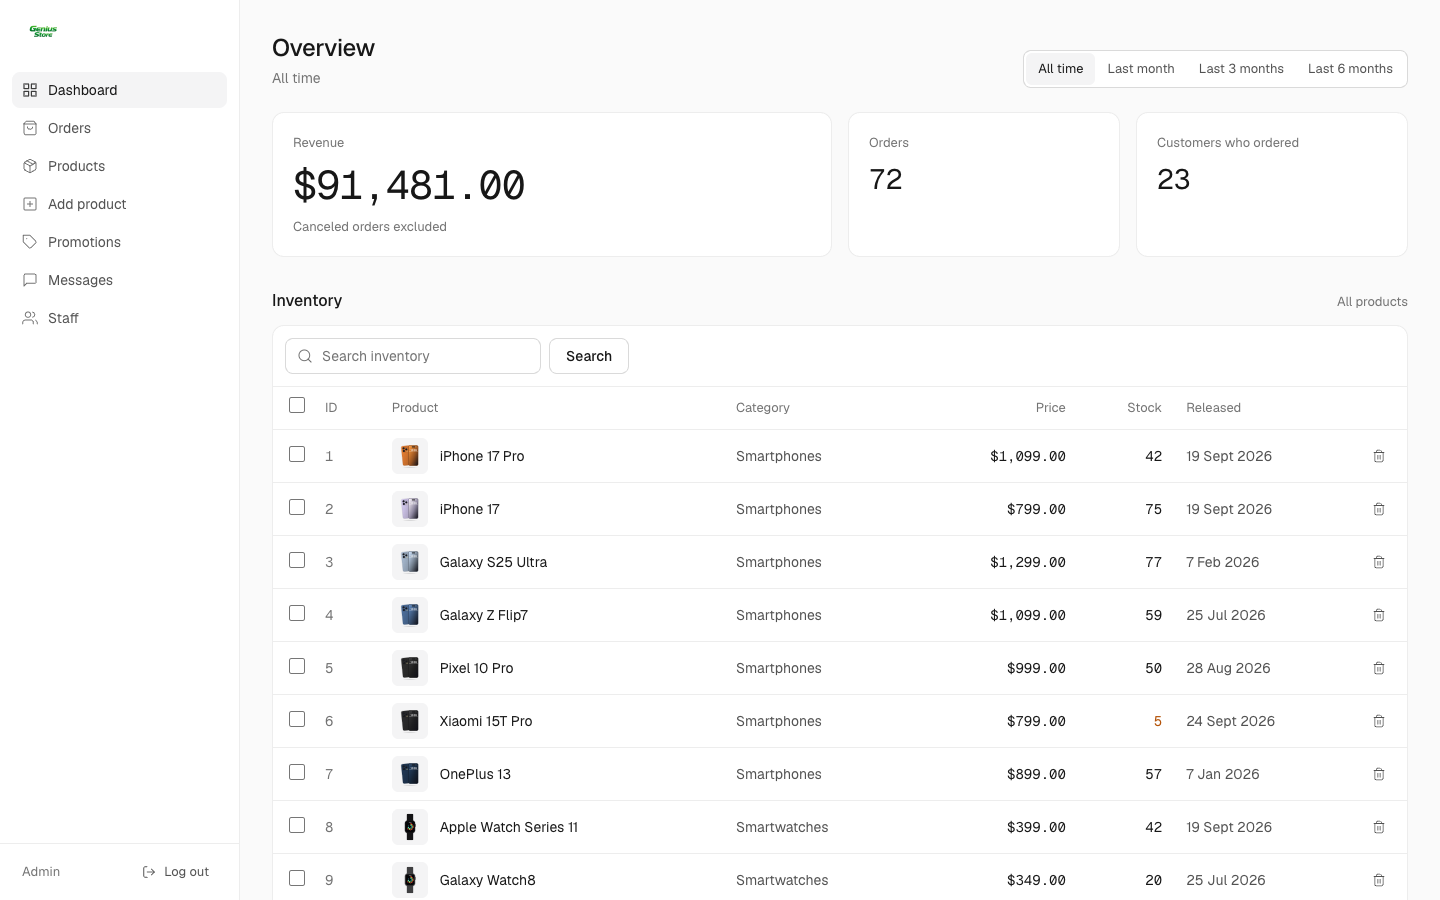
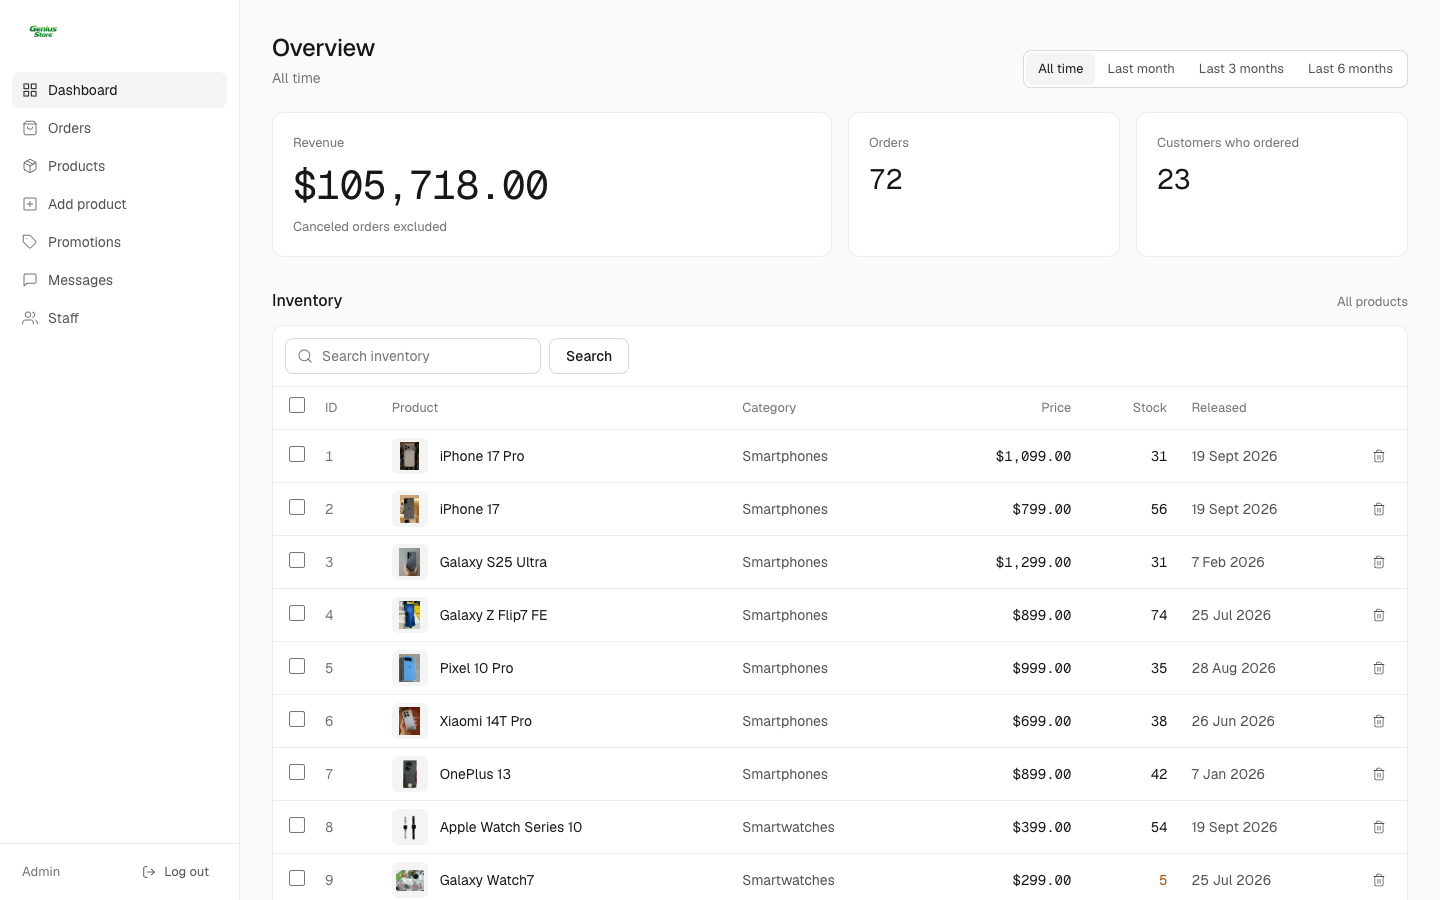
Use real product photos in README screenshots
Retake the storefront and admin screenshots with photos from Wikimedia
Commons instead of drawn placeholders, and credit each photo's author
and licence in a new Photo credits section.

diff --git a/README.md b/README.md
@@ -25,7 +25,7 @@ A customer storefront, an admin panel and a REST API, with Bakong KHQR payments,
 |---|---|
 | ![Storefront home page](docs/screenshots/storefront.png) | ![Admin dashboard](docs/screenshots/admin-dashboard.png) |
 
-<sub>Shown with demo data and generated product images.</sub>
+<sub>Shown with demo data. Product photos from Wikimedia Commons, see Photo credits below.</sub>
 
 ## ✨ Features
 
@@ -128,6 +128,42 @@ PhoneShop-website/
 
 - [Project overview](docs/PROJECT_OVERVIEW.md): features, API endpoints, auth flow
 - [Development notes](docs/dev-notes/): feature write-ups and fixes made along the way
+
+## 🖼 Photo credits
+
+The product photos and the Apple and Xiaomi logos in the screenshots come from [Wikimedia Commons](https://commons.wikimedia.org/). They are used under the licences below. Brand names and logos belong to their owners.
+
+<details>
+<summary>Show credits</summary>
+
+| Photo | Author | Licence |
+|---|---|---|
+| [AirPods Pro 3 with case](https://commons.wikimedia.org/wiki/File:AirPods_Pro_3_with_case.jpg) | Auggie G | CC BY 3.0 |
+| [Apple Watch Series 10](https://commons.wikimedia.org/wiki/File:Apple_Watch_Series_10.png) | KK IN HK | Public domain |
+| [Samsung Galaxy Buds2 Pro (Graphite) (3)](https://commons.wikimedia.org/wiki/File:Samsung_Galaxy_Buds2_Pro_(Graphite)_(3).jpg) | Gannu03 | CC BY-SA 4.0 |
+| [SAMSUNG EP-T4510 45W POWER ADAPER BLACK](https://commons.wikimedia.org/wiki/File:SAMSUNG_EP-T4510_45W_POWER_ADAPER_BLACK.jpg) | Dinkun Chen | CC BY-SA 4.0 |
+| [Samsung Galaxy Flip7 FE](https://commons.wikimedia.org/wiki/File:Samsung_Galaxy_Flip7_FE.jpg) | Ssu | CC BY-SA 4.0 |
+| [Samsung Galaxy Z Flip7 FE Its Look When Closed](https://commons.wikimedia.org/wiki/File:Samsung_Galaxy_Z_Flip7_FE_Its_Look_When_Closed.jpg) | X-SHLIED | CC BY 4.0 |
+| [Galaxy Watch 7](https://commons.wikimedia.org/wiki/File:Galaxy_Watch_7.jpg) | Kyu3a | CC BY-SA 4.0 |
+| [IPad Air 11-inch (M3)](https://commons.wikimedia.org/wiki/File:IPad_Air_11-inch_(M3).jpg) | 茅野ふたば | CC BY-SA 4.0 |
+| [Black iPhone 17](https://commons.wikimedia.org/wiki/File:Black_iPhone_17.jpg) | Ahmad Ali Karim | CC0 |
+| [Lavender iPhone 17](https://commons.wikimedia.org/wiki/File:Lavender_iPhone_17.jpg) | Ahmad Ali Karim | CC0 |
+| [Mist Blue iPhone 17](https://commons.wikimedia.org/wiki/File:Mist_Blue_iPhone_17.jpg) | Ahmad Ali Karim | CC0 |
+| [White iPhone 17](https://commons.wikimedia.org/wiki/File:White_iPhone_17.jpg) | Ahmad Ali Karim | CC0 |
+| [Cosmic Orange iPhone 17 Pro Max](https://commons.wikimedia.org/wiki/File:Cosmic_Orange_iPhone_17_Pro_Max.jpg) | Ahmad Ali Karim | CC0 |
+| [Silver iPhone 17 Pro Max](https://commons.wikimedia.org/wiki/File:Silver_iPhone_17_Pro_Max.jpg) | Ahmad Ali Karim | CC0 |
+| [Apple logo black](https://commons.wikimedia.org/wiki/File:Apple_logo_black.svg) | Original:  Rob Janoff | Public domain |
+| [Xiaomi logo (2021-)](https://commons.wikimedia.org/wiki/File:Xiaomi_logo_(2021-).svg) | Xiaomi | Public domain |
+| [OnePlus 13 back](https://commons.wikimedia.org/wiki/File:OnePlus_13_back.jpg) | Maksdroider | CC BY-SA 4.0 |
+| [Arrière du Google Pixel 10 Pro pierre de lune de 256 Go](https://commons.wikimedia.org/wiki/File:Arri%C3%A8re_du_Google_Pixel_10_Pro_pierre_de_lune_de_256_Go.jpg) | Fabe56 | CC BY-SA 4.0 |
+| [Pixel Buds Pro, orange](https://commons.wikimedia.org/wiki/File:Pixel_Buds_Pro,_orange.jpg) | Mliu92 | CC BY-SA 3.0 |
+| [Google Pixel Watch - 1](https://commons.wikimedia.org/wiki/File:Google_Pixel_Watch_-_1.jpg) | KKPCW（Kyu3） | CC BY-SA 4.0 |
+| [Samsung Galaxy S25 Ultra](https://commons.wikimedia.org/wiki/File:Samsung_Galaxy_S25_Ultra.jpg) | Jakub CA | CC BY 4.0 |
+| [Samsung Galaxy S25 Ultra Titanium Silverblue](https://commons.wikimedia.org/wiki/File:Samsung_Galaxy_S25_Ultra_Titanium_Silverblue.jpg) | Alvis Jean | CC BY-SA 4.0 |
+| [Galaxy Tab S10+ Back](https://commons.wikimedia.org/wiki/File:Galaxy_Tab_S10%2B_Back.jpg) | Nash Izumrud | CC BY-SA 4.0 |
+| [Xiaomi 14T Pro](https://commons.wikimedia.org/wiki/File:Xiaomi_14T_Pro.jpg) | Petar Milošević | CC BY-SA 4.0 |
+
+</details>
 
 ## 👥 Contributors
 
